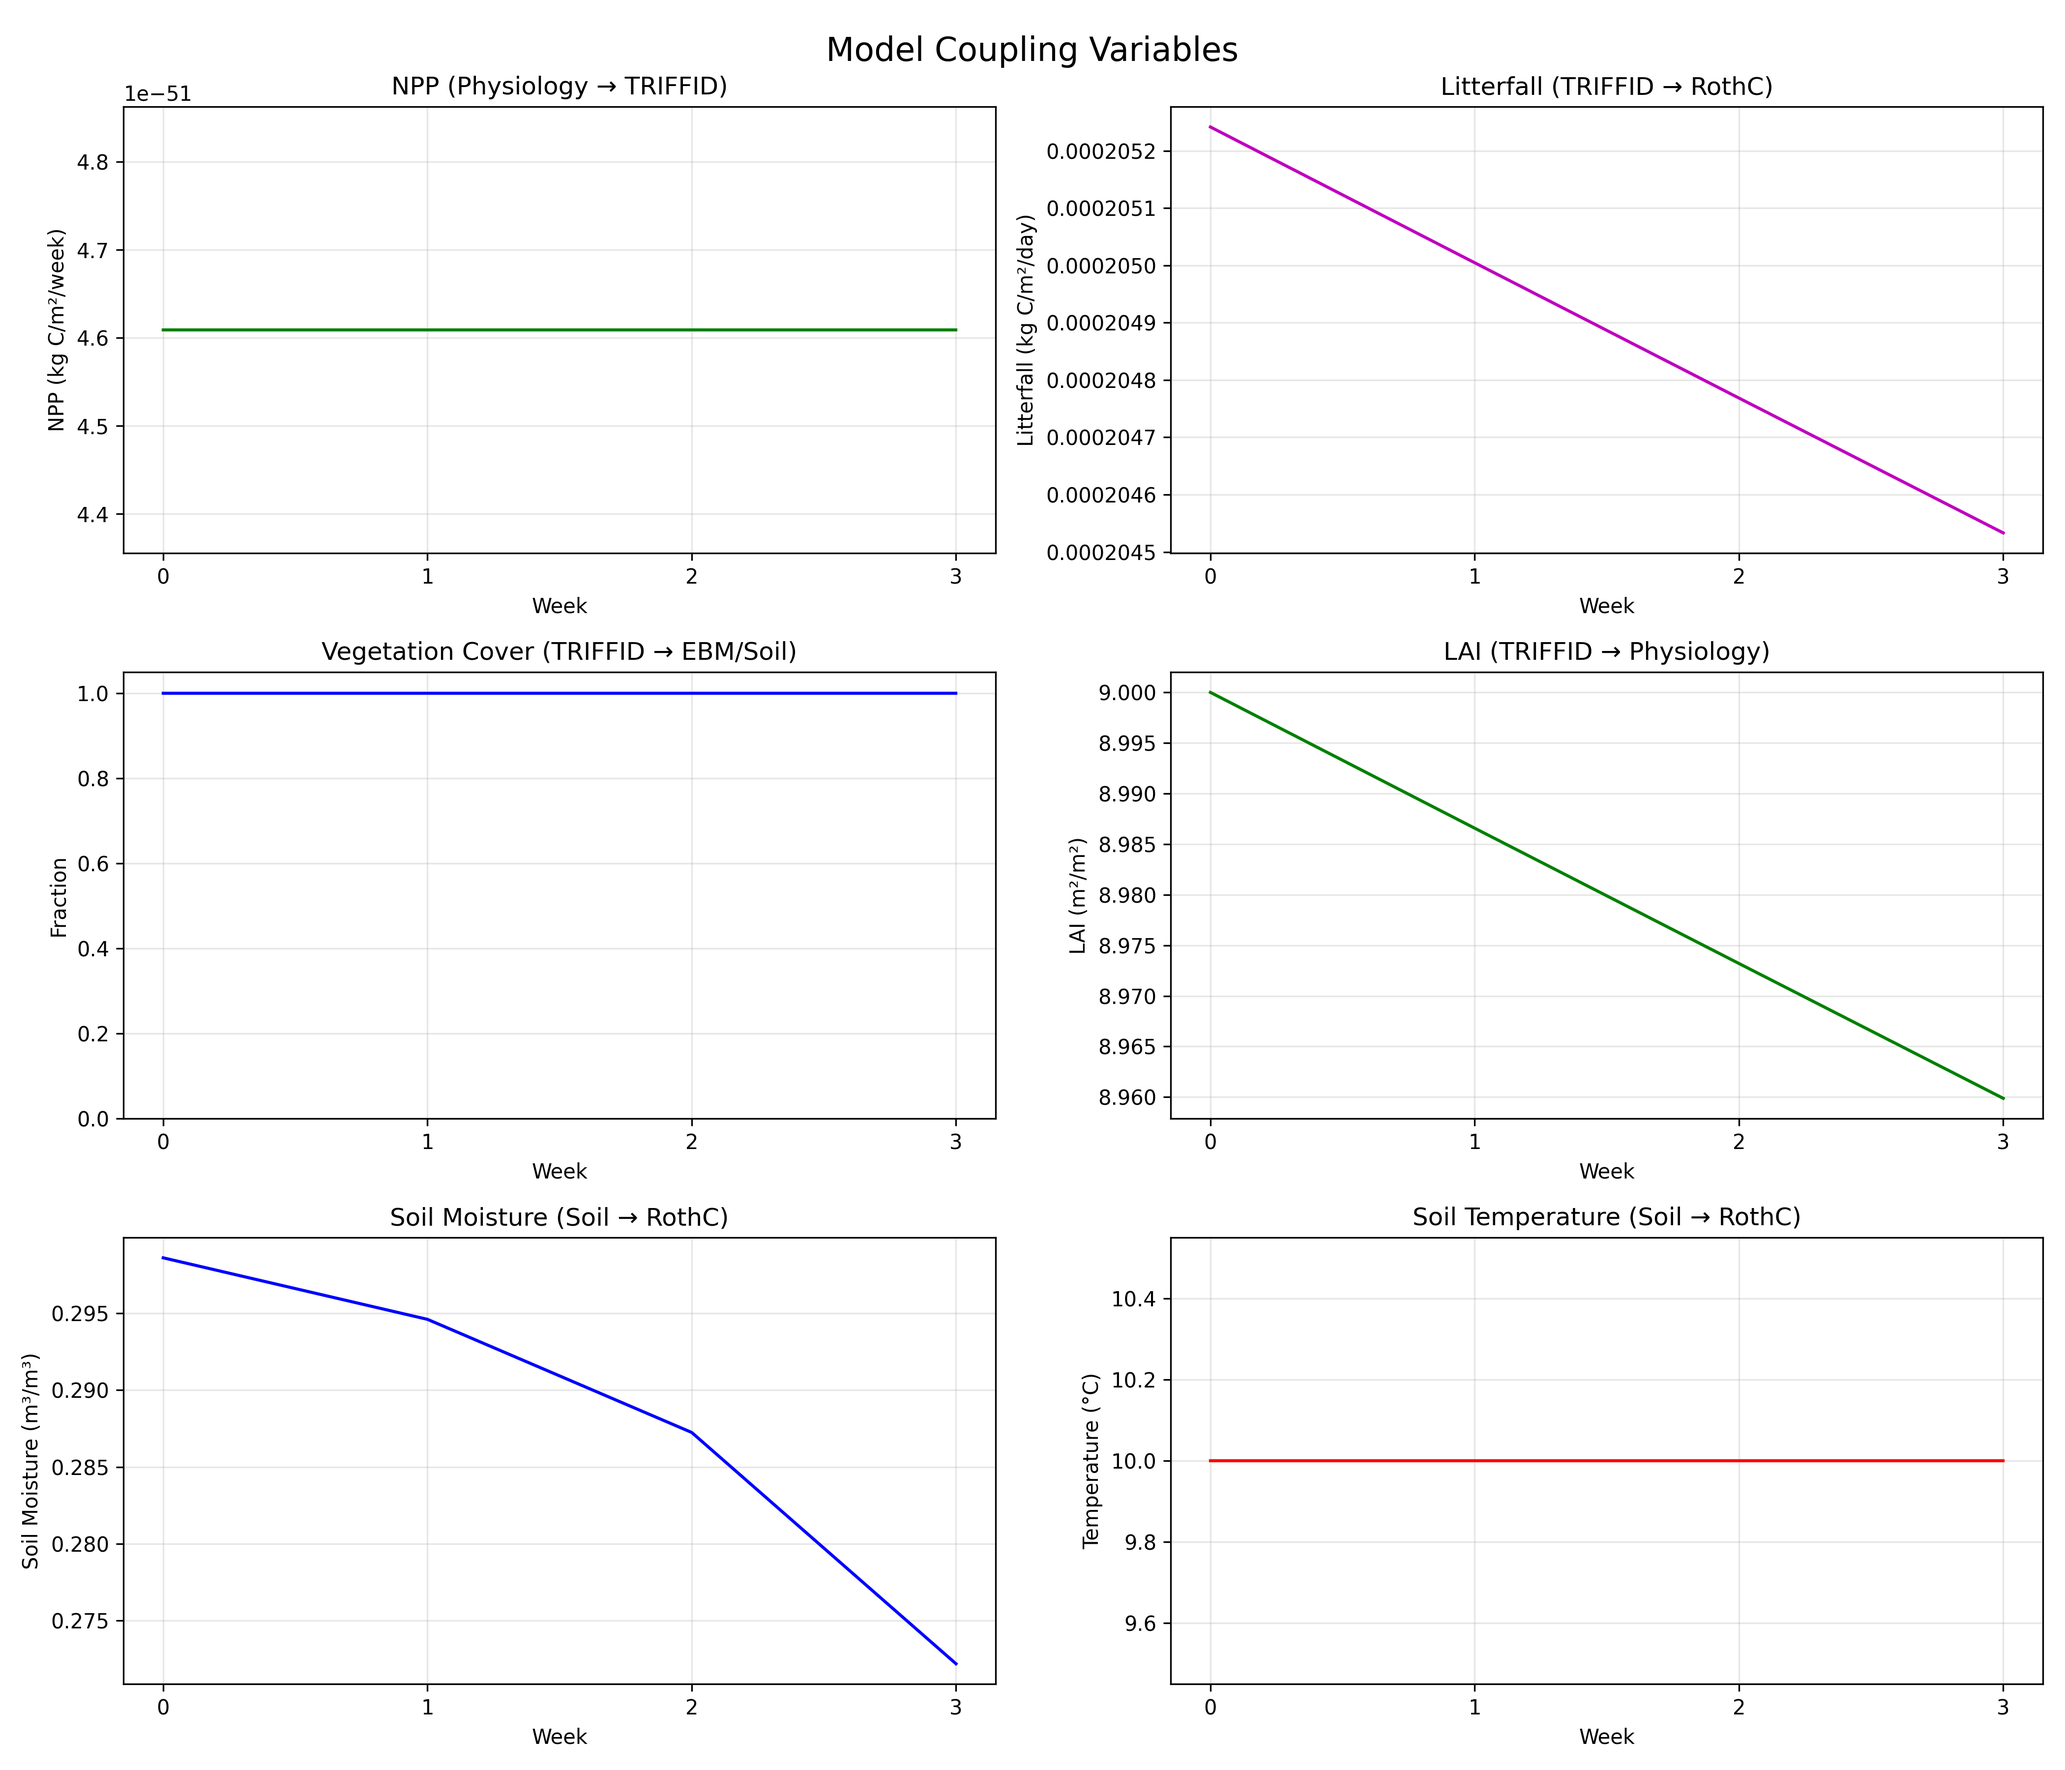
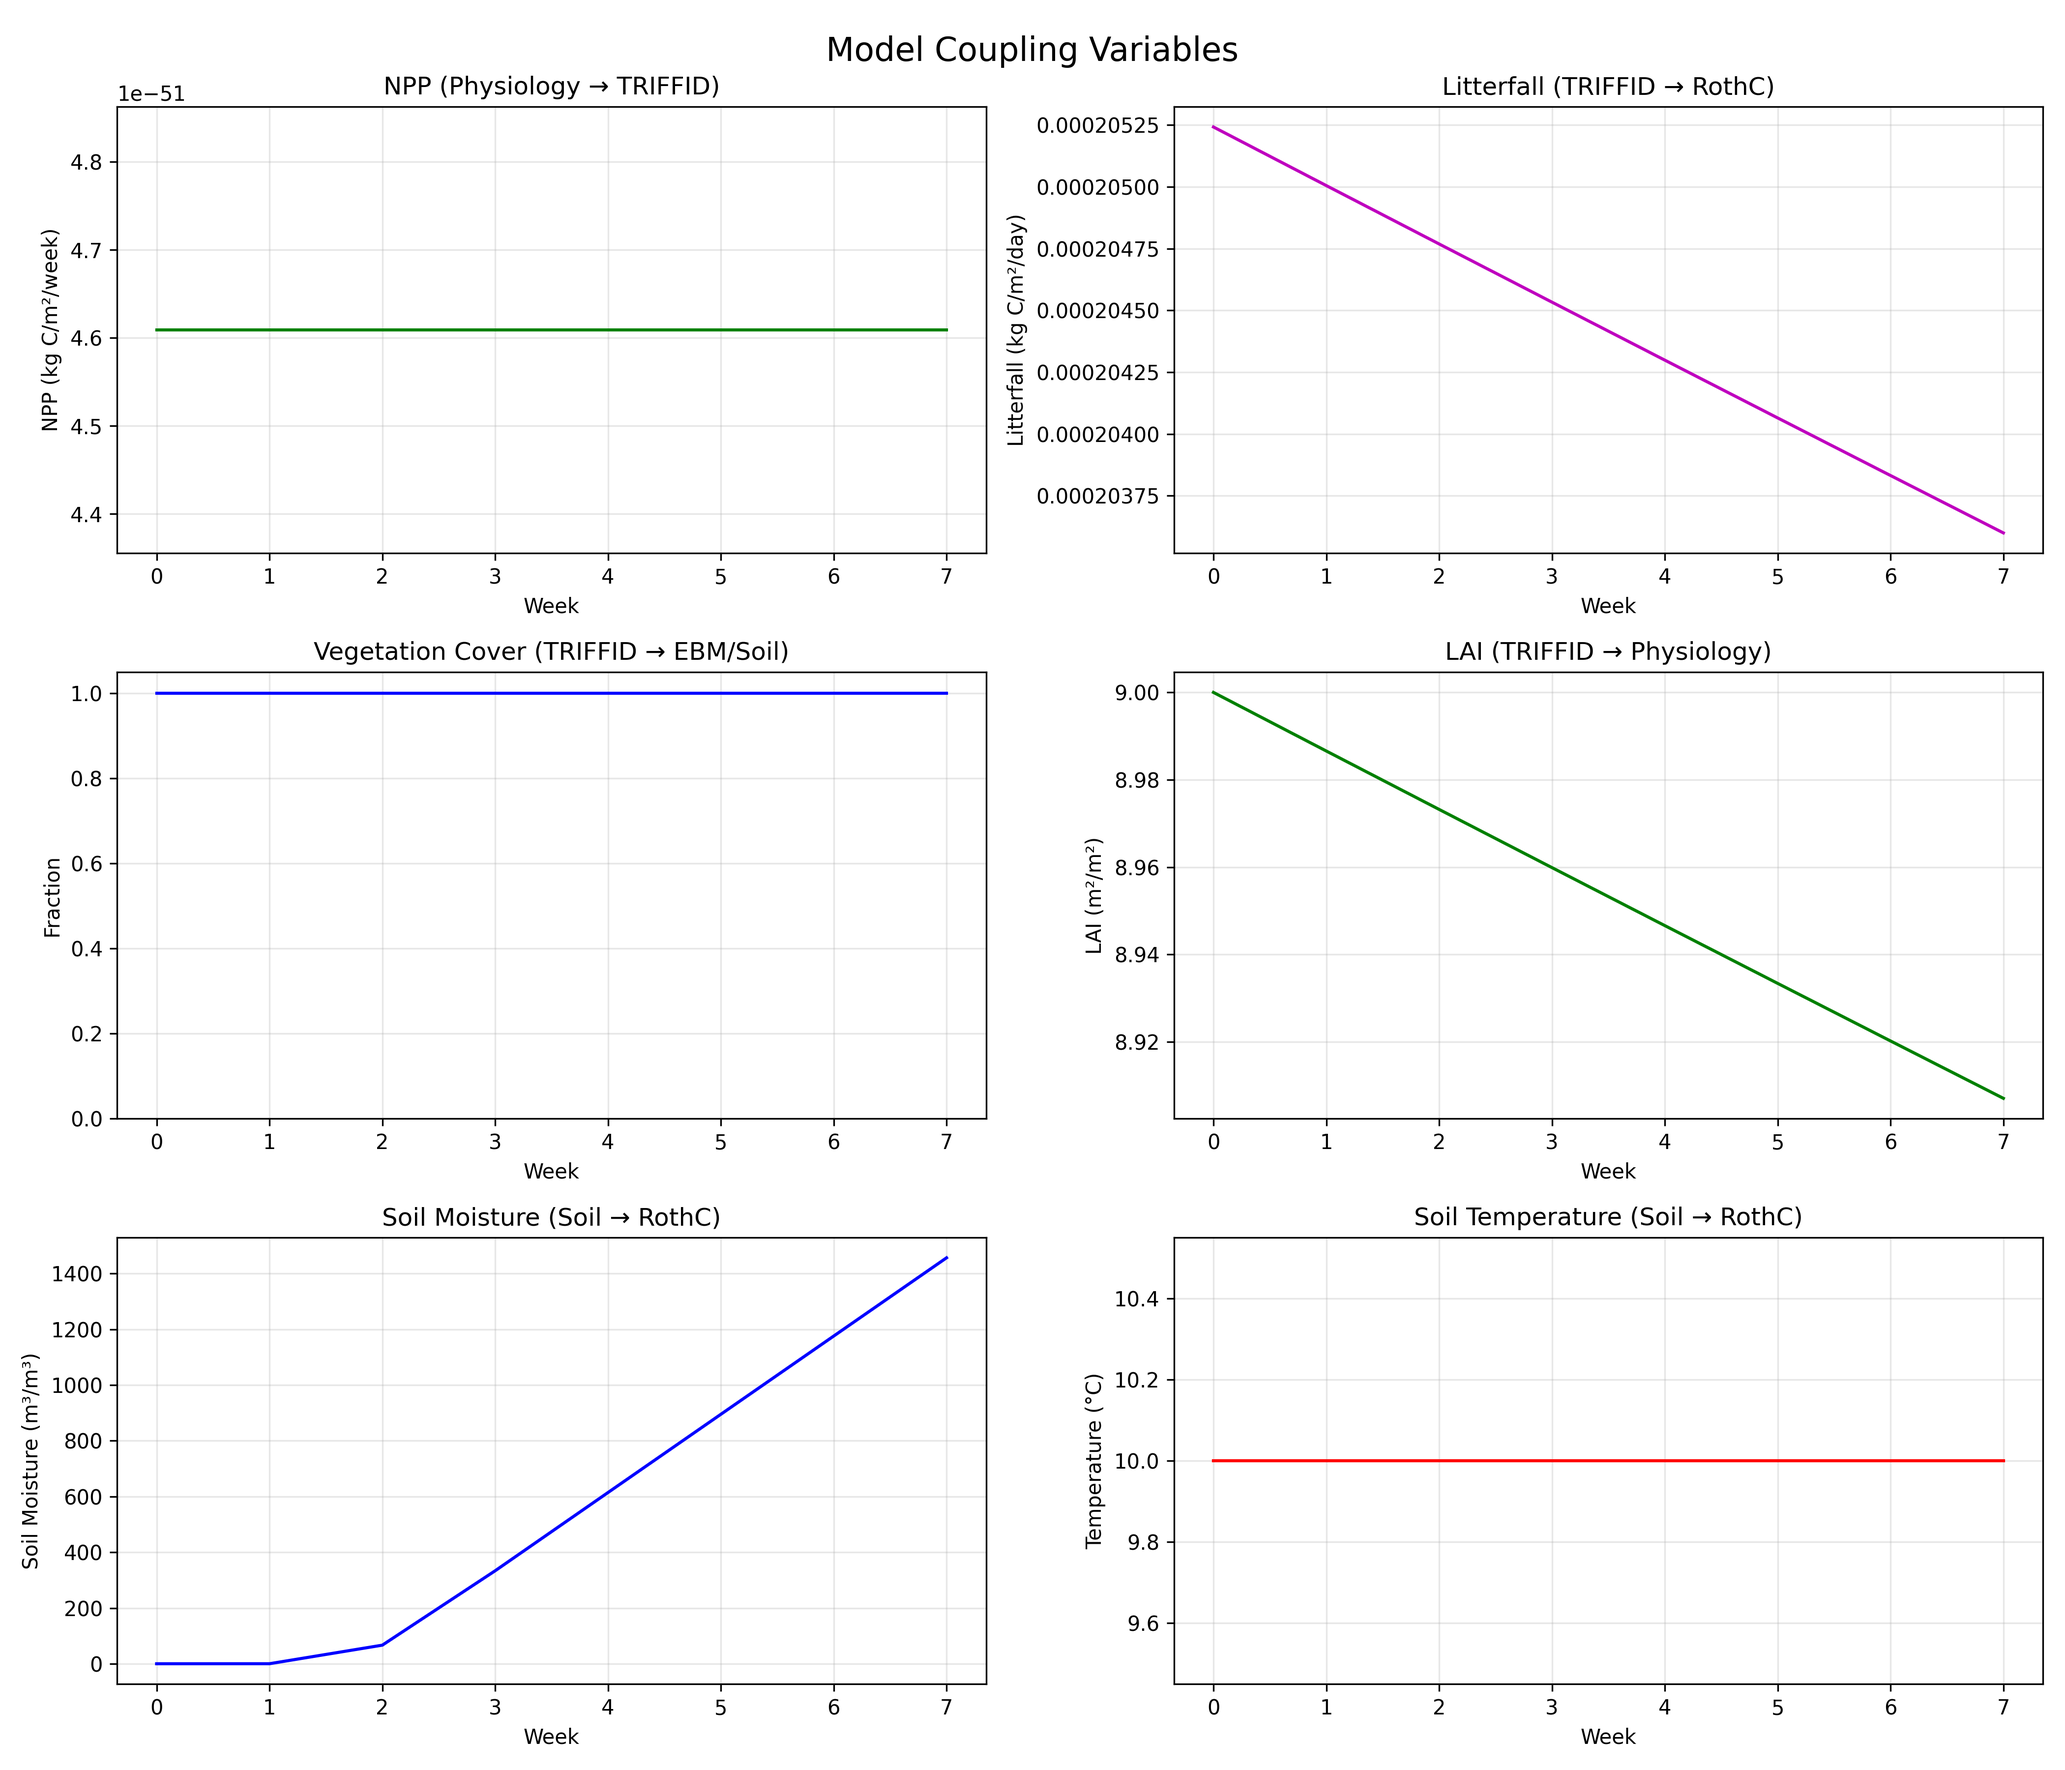
add temperature-based ET data to fix soil moisture bug

diff --git a/scripts/era5_simulation_run.py b/scripts/era5_simulation_run.py
@@ -44,7 +44,7 @@ def create_era5_config(era5_drivers, simulation_weeks=52):
         'time_bounds': era5_drivers.get('time_bounds', (0, simulation_weeks * 7 * 24))
     }
 
-def run_jules_era5_simulation(data_file, metadata_file, weeks=52, output_dir='results'):
+def run_jules_era5_simulation(data_file, metadata_file, weeks=52, output_dir='results', days_to_plot=30):
     """
     Run JULES simulation with ERA5 meteorological forcing
     """
@@ -103,22 +103,27 @@ def run_jules_era5_simulation(data_file, metadata_file, weeks=52, output_dir='re
         print(f"✓ Simulation completed successfully!")
         print(f"✓ Forcing used: {results['metadata']['external_forcing']}")
         
-        # 6. Create output directory and save results
-        os.makedirs(output_dir, exist_ok=True)
-        
-        print("Generating coupling analysis plots...")
-        summary = visualize_jules_coupling(results, save_path=os.path.join(output_dir, 'coupling_plots'))
-        
-        print("Saving ERA5 data summary...")
+        # 6. Generate coupling analysis plots and capture summary
+        print("Generating coupling analysis plots…")
+        summary = visualize_jules_coupling(
+            results,
+            save_path=os.path.join(output_dir, 'coupling_plots')
+        )
+
+        # 7. Save ERA5 data summary
         save_era5_summary(era5_data['summary'], output_dir)
-        
+
+        # 8. Plot forcing for first N days
+        print(f"Plotting first {days_to_plot} days of forcing…")
+        plot_era5_forcing(era5_data, output_dir, days_to_plot)
+
         return {
             'results': results,
             'era5_data': era5_data,
             'config': config,
-            'summary': summary
+            'summary': summary   # now defined
         }
-        
+
     except Exception as e:
         print(f"❌ Simulation failed: {e}")
         raise
@@ -145,8 +150,12 @@ def plot_era5_forcing(era5_data, output_dir, days_to_plot=30):
     data = era5_data['data']
     time_hours = data['time_hours']
     
-    # Limit to first N days for clarity
-    end_idx = min(len(time_hours), days_to_plot * 24)
+    # actual timestep in hours
+    dt_h = time_hours[1] - time_hours[0]
+    # number of steps for days_to_plot days
+    steps = int(days_to_plot * 24 / dt_h)
+    end_idx = min(len(time_hours), steps)
+    
     time_days = time_hours[:end_idx] / 24
     
     fig, axes = plt.subplots(3, 2, figsize=(14, 12))
@@ -233,7 +242,7 @@ if __name__ == "__main__":
         simulation_results = run_jules_era5_simulation(
             data_file=data_file,
             metadata_file=metadata_file,
-            weeks=4,  # Short test
+            weeks=8,  
             output_dir="results/era5_simulation"
         )
         

diff --git a/src/julesf/coupler/fast_models_wrapper.py b/src/julesf/coupler/fast_models_wrapper.py
@@ -134,23 +134,31 @@ def run_fast_models_week(nu_cover, LAI_total, soil_initial, week_num=0, external
     
     if external_drivers and 'era5_forcing' in external_drivers:
         era5 = external_drivers['era5_forcing']
-        soil_drivers_complete['precip'] = lambda t: max(0, era5['precip'](t))  # kg/m²/s
+        soil_drivers_complete['precipitation'] = lambda t: max(0, era5['precip'](t))  # FIXED KEY
         
+        # temperature-based ET
+        # TODO: add ET data
+        soil_drivers_complete['evapotranspiration'] = lambda t: (
+            5e-5 * max(0, (era5['Tair'](t) - 273.15) / 25) 
+        )
+
         # Test precipitation
         try:
-            test_precip = soil_drivers_complete['precip'](24.0)  # 1 day in
+            test_precip = soil_drivers_complete['precipitation'](24.0)  # 1 day in
             print(f"  ✓ Soil: Using ERA5 precipitation (test: {test_precip:.6f} kg/m²/s)")
         except Exception as e:
             print(f"  ❌ ERA5 precipitation test failed: {e}")
     else:
-        soil_drivers_complete['precip'] = lambda t: 1e-5  # Default precipitation
-        print(f"  ✓ Soil: Using default precipitation")
+        soil_drivers_complete['precipitation'] = lambda t: 1e-5  # Default precipitation
+        soil_drivers_complete['evapotranspiration'] = lambda t: 2e-5  # Default ET rate
+        print(f"  ✓ Soil: Using default precipitation and evaporatranspiration")
     
     # Add EBM surface temperature coupling
     soil_drivers_complete['T_surface'] = lambda t: np.interp(t, t_ebm, Ts_ebm)
     
     # Add vegetation coupling
     soil_drivers_complete['nu'] = lambda t: nu_cover  # For evapotranspiration
+    
     
     # ========== 6. RUN SOIL MODEL ==========
     t_soil, theta_ts, T_ts = solve_soil_rhs(

diff --git a/src/julesf/soil/simulation.py b/src/julesf/soil/simulation.py
@@ -23,13 +23,17 @@ def generate_soil_forcings(days=7, dt_hours=0.5):
     # Diurnal air temperature (K) - 10°C ± 5°C with random noise
     T_air = 283.15 + 5 * np.sin(2*np.pi*t/24) + np.random.normal(0, 1, len(t))
     
-    # Precipitation (kg/m²/s) - random bursts, positive half-normal
-    precip_base = np.maximum(0, np.random.normal(0, 1e-5, len(t)))
-    precip_events = (np.random.random(len(t)) < 0.02)  # 2% chance of rain each timestep
-    precip = precip_base + precip_events * np.random.exponential(5e-5, len(t))
+    # Base precipitation: very light continuous
+    precip_base = np.maximum(0, np.random.normal(0, 1e-4, len(t)))  
     
-    # Evapotranspiration (kg/m²/s) - daytime peak, temperature dependent
-    ET_potential = np.maximum(0, 2e-5 * np.sin(np.pi * (t % 24) / 24))
+    # Rain events: 2% chance per timestep, with realistic intensity
+    precip_events = (np.random.random(len(t)) < 0.02)  # 2% chance of rain
+    rain_intensity = np.random.exponential(1e-3, len(t)) 
+    precip = precip_base + precip_events * rain_intensity
+    
+    # Evapotranspiration (kg/m²/s) 
+    # Typical ET: 2-6 mm/day = 2.3e-5 to 6.9e-5 kg/m²/s average
+    ET_potential = np.maximum(0, 1e-4 * np.sin(np.pi * (t % 24) / 24))  
     ET = ET_potential * np.maximum(0, (T_air - 273.15) / 20)  # Temperature scaling
     
     # Surface heat flux (W/m²) - diurnal solar cycle

diff --git a/src/julesf/soil/equations_moisture.py b/src/julesf/soil/equations_moisture.py
@@ -116,15 +116,11 @@ def infiltration_rate(params, drivers, t):
     if 'precipitation' in drivers:
         precip = drivers['precipitation'](t)  # kg/m²/s
         
-        # Simple infiltration capacity check
-        K_sat = params['K_sat'] * 1000  # Convert m/s to kg/m²/s (ρ_water = 1000)
+        # Convert K_sat from m/s to kg/m²/s properly
+        rho_water = params.get('rho_water', 1000.0)  # kg/m³
+        K_sat_kg = params['K_sat'] * rho_water  # m/s × kg/m³ = kg/m²/s
         
-        # Infiltration limited by saturated conductivity
-        W0 = min(precip, K_sat)
-        
-        # Surface runoff is excess precipitation
-        # TODO: Add proper surface storage and runoff routing
-        
+        W0 = min(precip, K_sat_kg)
         return max(0, W0)
     else:
         return 0.0
